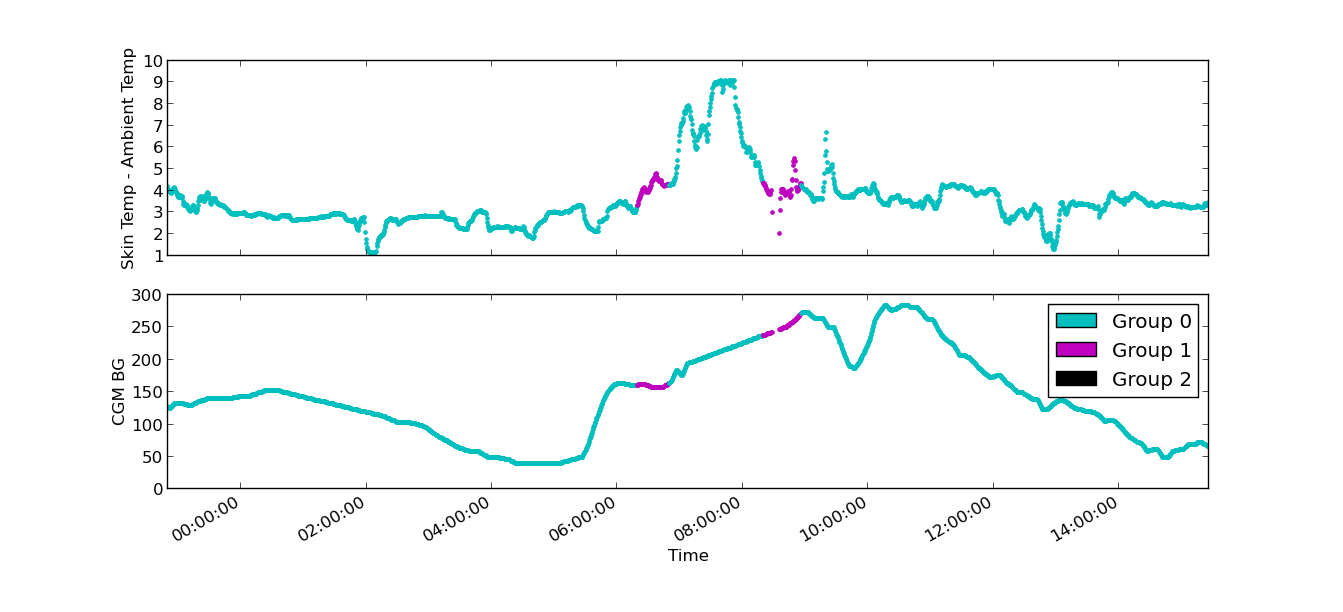
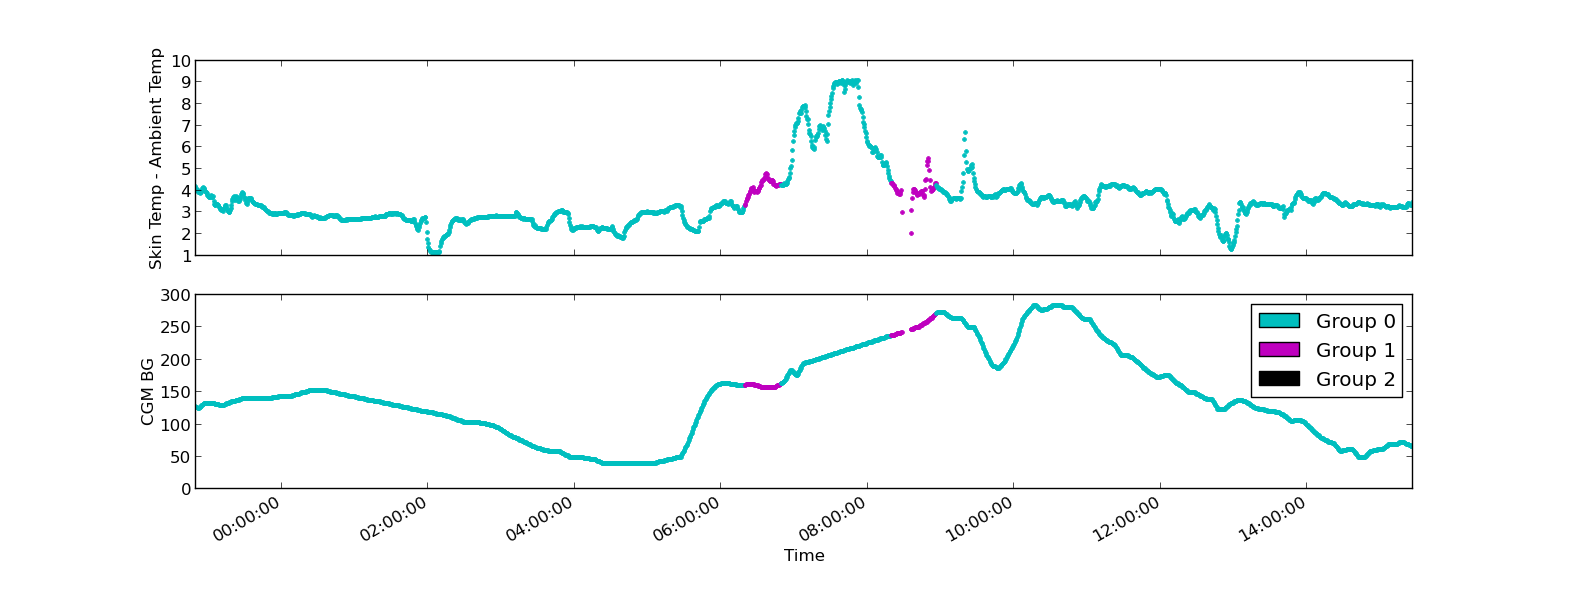
changed plotBGST to reflect falling = 2

diff --git a/plotBGST.py b/plotBGST.py
@@ -15,7 +15,7 @@ def dateconv(date_str):
 def t1dmread(file_name):
     dtypes = np.dtype({ 'names' : ('timestamp', 'skin temp', 'air temp', 'steps', 'lying down', 'sleep', 'physical activity', 'energy', 'sedentary', 'moderate', 'vigorous', 'very vigorous', 'mets', 'hr', 'cgm', 'cgm dir'),
                         'formats' : [datetime, np.float, np.float, np.int, np.int, np.float, np.int, np.float, np.int, np.int, np.int, np.int, np.float, np.int, np.int, np.int] })
-    data = np.loadtxt(file_name, delimiter=',', skiprows=1,converters = { 0 : dateconv },usecols=(0,5,8,13,17,18,19,20,21,22,23,24,25,26,27,28), dtype=dtypes)
+    data = np.loadtxt(file_name, delimiter=',', skiprows=1,converters = { 0 : dateconv },usecols=(0,7,10,13,17,18,19,20,21,22,23,24,25,26,27,28), dtype=dtypes)
     return data
 
 def stuffPlot(timestamps,func,title,ylabel):
@@ -34,7 +34,7 @@ def stuffPlot(timestamps,func,title,ylabel):
 if not os.path.exists('plots'):
     os.mkdir('plots')
 
-data = t1dmread('trimmedDataFiles/MYFILE101_trimmed.csv')
+data = t1dmread('trimmedDataFiles/MYFILE108_trimmed.csv')
 timeStamps = np.array(data['timestamp'])
 skinTemp = np.array(data['skin temp'])
 airTemp = np.array(data['air temp'])
@@ -57,7 +57,7 @@ for i in range(0,len(cgm)):
         cgmFig.plot(timeStamps[i],cgm[i],'g.')
     elif cgmDir[i]==1:
         cgmFig.plot(timeStamps[i],cgm[i],'r.')
-    elif cgmDir[i]==-1:
+    elif cgmDir[i]==2:
         cgmFig.plot(timeStamps[i],cgm[i],'b.')
 fig.autofmt_xdate()
 
@@ -77,5 +77,5 @@ fig.autofmt_xdate()
 pl.xlabel('Time')
 
 pl.show()
-fig.savefig('plots/bgstsubplot101')
+fig.savefig('plots/bgstsubplot108')
 
